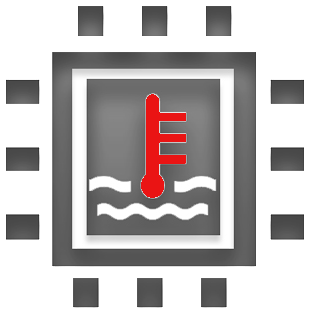
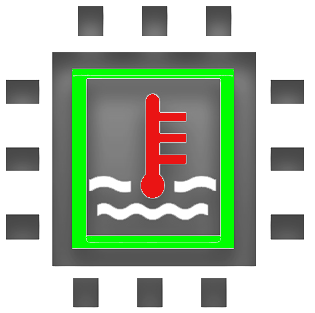
Webiopi+ Loop OK GA OK on boot

Changed region(s): [[0.2286, 0.2013, 0.7429, 0.8051]]

diff --git a/html/index.html b/html/index.html
@@ -25,14 +25,13 @@
 	
 		async function fctCamOn() {
 			var dialog = document.getElementById('startcamdialog');  
-			dialog.show();
+			dialog.show();			
+			webiopi().callMacro("camOn");				
+			await sleep(1000);
 			
-			webiopi().callMacro("camOn");	
+			dialog.close(); 	
+			window.location.reload(true);
 			
-			await sleep(1000);			
-			dialog.close();
-			
-			window.location.reload(true); 	
 		}
 		
 		async function fctCamOff() {
@@ -107,60 +106,51 @@
 
         function macro_Temp_Callback(macro, arg0, data){
            temp = data.split(" ")[0];			
-			if (temp <= 80)
-				document.getElementById("temp").style.color = "white"
+			if (temp <= 60)
+				document.getElementById("temp").style.color = "lime"
 			else
 				document.getElementById("temp").style.color = "red"
 				
 			document.getElementById("temp").innerHTML = "= " + temp + " °C";
 		}
-				
-		
-//		function callMacro_Dist(){
-//		var arg0 = [0];
-//      webiopi().callMacro("Dist", arg0, macro_Dist_Callback);
-//		}
-		
-//		function macro_Dist_Callback(macro, arg0, data){
-//			dist = data;					
-//			if (dist < 0.3){
-//				webiopi().digitalWrite(18, 0)
-//				webiopi().digitalWrite(23, 0)
-//				webiopi().digitalWrite(24, 1)					
-//			}else if (dist < 0.5){
-//				webiopi().digitalWrite(18, 0)
-//				webiopi().digitalWrite(24, 0)
-//				webiopi().digitalWrite(23, 1)
-//			}else {
-//				webiopi().digitalWrite(23, 0)
-//				webiopi().digitalWrite(24, 0)
-//				webiopi().digitalWrite(18, 1)
-//			}
-//		}
 		
 		
-		window.onload = function(){
+	window.onload = function(){
 			callMacro_Temp();
-			//callMacro_Dist();
-		};
-		var repeatTemp = setInterval ("callMacro_Temp()", 10000);
-		//var repeatDist = setInterval ("callMacro_Dist()", 100);
+	};
+	var repeatTemp = setInterval ("callMacro_Temp()", 10000);
 		
-//		async function fctGoogleOn() {
-//			//webiopi().callMacro('GoogleOn');
+	
+//	async function fctGoogleOn() {
+//			webiopi().callMacro('GoogleOn');
 //			var dialog = document.getElementById('startGoogledialog');  		
 //			dialog.show();
 //			await sleep(1000);
 //			dialog.close();
 //		}
 //		
-//		async function fctGoogleOff() {
-//			//webiopi().callMacro('GoogleOff');
+//	async function fctGoogleOff() {
+//			webiopi().callMacro('GoogleOff');
 //			var dialog = document.getElementById('stopGoogledialog');  		
 //			dialog.show();
 //			await sleep(1000);
 //			dialog.close();
 //		}
+
+	async function fctDistOn(){
+		webiopi().callMacro("DistOn");
+			var dialog = document.getElementById('startDistdialog');  		
+			dialog.show();
+			await sleep(1000);
+			dialog.close();
+		}
+	async function fctDistOff(){
+		webiopi().callMacro("DistOff");
+			var dialog = document.getElementById('stopDistdialog');  		
+			dialog.show();
+			await sleep(1000);
+			dialog.close();
+		}
 		
 	
         </script>
@@ -226,8 +216,6 @@
 		align-items: flex-end;
 		width: 40%;
         height: 30%;
-		border-radius: 8px;
-		border: 2px solid lime;
 		position : absolute;
 		left : 0px;
 		top : 0px;
@@ -241,64 +229,92 @@
 		display: flex;
 		justify-content: space_between;
 		width: 100%;
-        height: 20%;
+        	height: 20%;
 		}
 		
 		#thermo {
 		width: 60px;
-        height: 60px;
-        background: url(thermo.png) no-repeat center; 
-        background-size : contain;
+        	height: 60px;
+        	background: url(thermo.png) no-repeat center; 
+        	background-size : contain;
 		}
 		
 		#temp {
 		font-size: 25px;
-		font-color: white;
 		position : relative;
 		left : 0%;
 		top : 0px;
 		margin-top : 10px;
 		}
 		
-	<!-- 	#btnGoogleOff {
+<!-- 	 	#btnGoogleOff {
 		width: 80px;
-        height: 45px;
+        	height: 45px;
 		margin: 10px 10px 10px 5px;
 		border-radius: 8px;
 		border: 2px solid #333333;
-        background: url(GoogleOff.png) no-repeat center; 
-        background-size : contain;		
+        	background: url(GoogleOff.png) no-repeat center; 
+        	background-size : contain;		
 		}			
-		 #btnCamOff:active {
+		 #btnGoogleOff:active {
 		background-color: #2EFE2E;
 		}		
-		 #btnCamOff:focus {
+		 #btnGoogleOff:focus {
 		}
 		
 		 #btnGoogleOn {
 		width: 80px;
-        height: 45px;
+        	height: 45px;
 		margin: 10px 5px 10px 10px;
 		border-radius: 8px;
 		border: 2px solid #333333;
-        background: url(GoogleOn.png) no-repeat center; 
-        background-size : contain;			
+        	background: url(GoogleOn.png) no-repeat center; 
+        	background-size : contain;			
 		}	
-		 #btnCamOn:active {
+		 #btnGoogleOn:active {
 		background-color: #2EFE2E;
 		}		
-		 #btnCamOn:focus {
-		} -->
+		 #btnGoogleOn:focus {
+		}       -->                        
 		
+		#btnDistOff {
+		width: 80px;
+        	height: 45px;
+		margin: 10px 10px 10px 5px;
+		border-radius: 8px;
+		border: 2px solid #333333;
+        	background: url(distOff.png) no-repeat center; 
+        	background-size : contain;		
+		}			
+		 #btnDistOff:active {
+		background-color: #2EFE2E;
+		}		
+		 #btnDistOff:focus {
+		}
+		
+		 #btnDistOn {
+		width: 80px;
+        	height: 45px;
+		margin: 10px 5px 10px 10px;
+		border-radius: 8px;
+		border: 2px solid #333333;
+        	background: url(distOn.png) no-repeat center; 
+        	background-size : contain;			
+		}	
+		 #btnDistOn:active {
+		background-color: #2EFE2E;
+		}		
+		 #btnDistOn:focus {
+		}
 		
 		 #btnCamPic {
 		width: 80px;
-        height: 45px;
+        	height: 45px;
 		margin: 10px 5px 10px 10px;
 		border-radius: 8px;
 		border: 2px solid #333333;
-        background: url(pic.png) no-repeat center; 
-        background-size : contain;
+        	background: url(pic.png) no-repeat center; 
+        	background-size : contain;
 		}					
 		 #btnCamPic:active {
 		background-color: #2EFE2E;
@@ -308,12 +324,12 @@
 		
 		 #btnCamOff {
 		width: 80px;
-        height: 45px;
+        	height: 45px;
 		margin: 10px 10px 10px 5px;
 		border-radius: 8px;
 		border: 2px solid #333333;
-        background: url(stop.png) no-repeat center; 
-        background-size : contain;		
+        	background: url(stop.png) no-repeat center; 
+        	background-size : contain;		
 		}			
 		 #btnCamOff:active {
 		background-color: #2EFE2E;
@@ -323,12 +339,12 @@
 		
 		 #btnCamOn {
 		width: 80px;
-        height: 45px;
+        	height: 45px;
 		margin: 10px 5px 10px 10px;
 		border-radius: 8px;
 		border: 2px solid #333333;
-        background: url(play.png) no-repeat center; 
-        background-size : contain;			
+        	background: url(play.png) no-repeat center; 
+        	background-size : contain;			
 		}	
 		 #btnCamOn:active {
 		background-color: #2EFE2E;
@@ -338,7 +354,7 @@
 		
 		 button {
 		width: 80px;
-        height: 45px;
+        	height: 45px;
 		margin: 10px 10px 10px 5px;
 		border-radius: 8px;
 		border: 2px solid #333333;
@@ -347,16 +363,18 @@
 		}				
 		 #gpio26.HIGH {		
 		background-color: transparent;
+		color: lime;
 		}	
 		 #gpio26.LOW {	
 		background-color: #2EFE2E;
+		color: black;
 		}	
 
 
 		#picdialog {
 		background: url(pic.png) no-repeat center; 
-        background-size : contain;
-        border: none;
+        	background-size : contain;
+        	border: none;
 		position : absolute;
 		 top : 0%;
 		 width : 20%;
@@ -365,8 +383,8 @@
 		
 		#startcamdialog {
 		background: url(play.png) no-repeat center; 
-        background-size : contain;
-        border: none;
+        	background-size : contain;
+        	border: none;
 		position : absolute;
 		 top : 0%;
 		 width : 30%;
@@ -375,28 +393,28 @@
 		
 		#stopcamdialog {
 		background: url(stop.png) no-repeat center; 
-        background-size : contain;
-        border: none;
+        	background-size : contain;
+        	border: none;
 		position : absolute;
 		 top : 0%;
 		 width : 30%;
 		 height: 30%;
 		}	
 		
-		#startGoogledialog {
-		background: url(GoogleOn.png) no-repeat center; 
-        background-size : contain;
-        border: none;
+		#startDistdialog {
+		background: url(distOn.png) no-repeat center; 
+        	background-size : contain;
+        	border: none;
 		position : absolute;
 		 top : 0%;
 		 width : 30%;
 		 height: 30%;
 		}	
 		
-		#stopGoogledialog {
-		background: url(GoogleOff.png) no-repeat center; 
-        background-size : contain;
-        border: none;
+		#stopDistdialog {
+		background: url(distOff.png) no-repeat center; 
+        	background-size : contain;
+        	border: none;
 		position : absolute;
 		 top : 0%;
 		 width : 30%;
@@ -418,6 +436,10 @@
 </dialog> 
 <dialog id="stopcamdialog">   
 </dialog>
+<dialog id="startDistdialog">   
+</dialog> 
+<dialog id="stopDistdialog">   
+</dialog>
 <!-- <dialog id="startGoogledialog">   
 </dialog> 
 <dialog id="stopGoogledialog">   
@@ -433,9 +455,13 @@
 
 <div id="actionsbis">
 <div id="togglesbis" class="toggles">
-<!-- <button type="button" id="btnGoogleOn" onclick="fctGoogleOn()">
-<button type="button" id="btnGoogleOff" onclick="fctGoogleOff()"> -->
+<button type="button" id="btnDistOn" onclick="fctDistOn()">
+<button type="button" id="btnDistOff" onclick="fctDistOff()">
 </div>
+<!-- <div class="toggles">
+<button type="button" id="btnGoogleOn" onclick="fctGoogleOn()">
+<button type="button" id="btnGoogleOff" onclick="fctGoogleOff()">
+</div> -->
 </div>
 
 <div id="actions">
@@ -458,7 +484,7 @@
 	var joystick1 = nipplejs.create({
 			zone: document.getElementById('zone_joystick1'),
 			mode: 'static',
-			size: 250,
+			size: 300,
 			position: {left: '50%', top: '70%'},
 			color: 'lime',
 			threshold: 0.0
@@ -494,7 +520,7 @@
 	var joystick2 = nipplejs.create({
 			zone: document.getElementById('zone_joystick2'),
 			mode: 'static',
-			size: 250,
+			size: 300,
 			position: {left: '50%', top: '70%'},
 			color: 'lime',
 			threshold: 0.0
